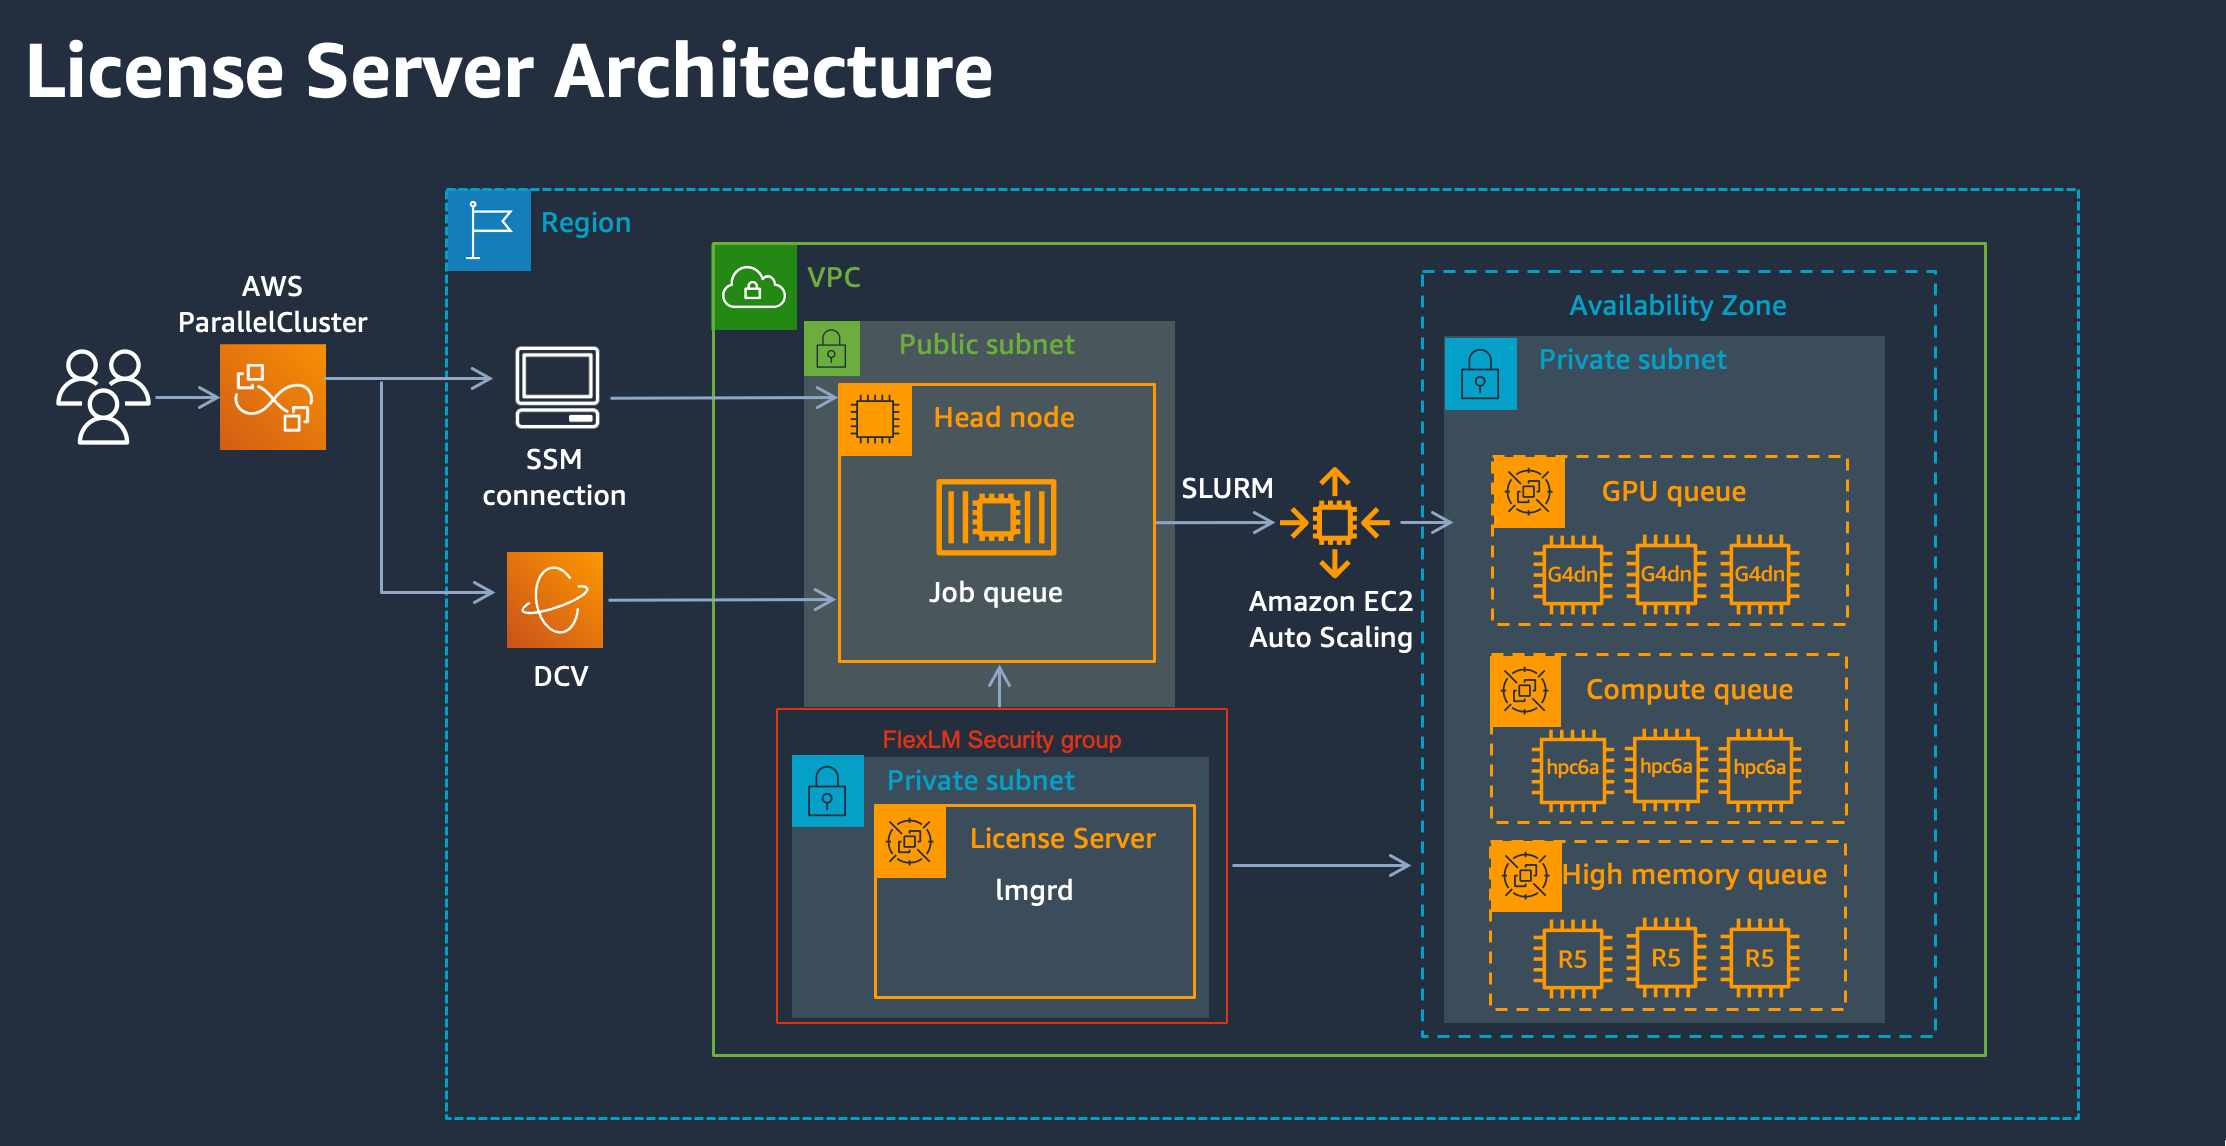
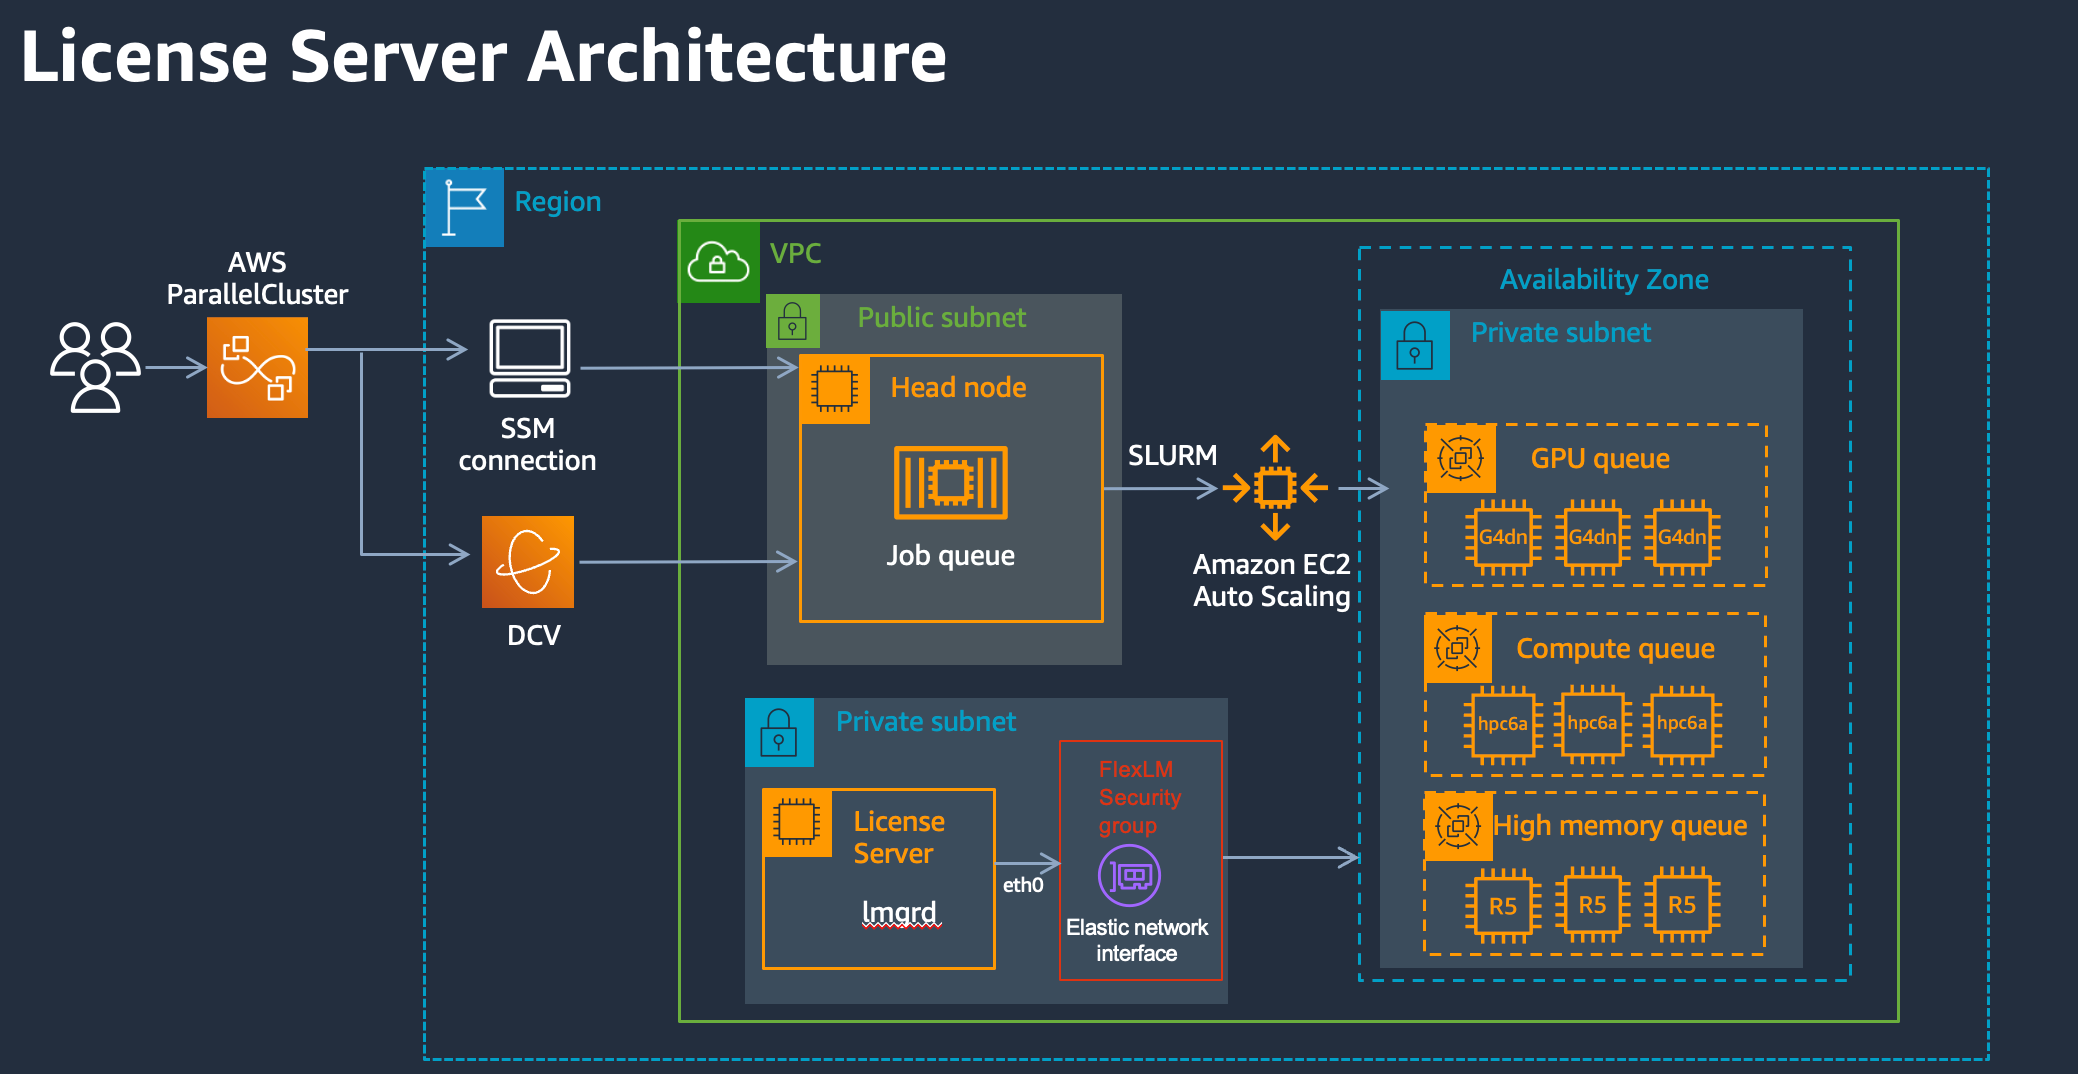
Add in external ENI to flexlm architecture diagram

diff --git a/content/posts/flexlm.md b/content/posts/flexlm.md
@@ -12,11 +12,23 @@ tags: [flexlm, aws, hpc]
 
 [FlexLM](https://www.openlm.com/what-is-flexlm-what-is-flexnet/) is the most popular license server for HPC workloads. It's the license server for applications like Siemens StarCCM+, Ansys Fluent, Abaqus, ect. 
 
-Once you have the licensing setup you can setup license tracking in Slurm following the blogpost [Setup Licensing with AWS ParallelCluster and Slurm 🪪](/posts/slurm-license-accounting.html).
+In the following guide we'll setup a license server that can be used with FlexLM (or any other linux-based licensing client). Once you have the licensing setup you can setup license tracking in Slurm following the blogpost [Setup Licensing with AWS ParallelCluster and Slurm 🪪](/posts/slurm-license-accounting.html).
+
+## Instance Type
+
+FlexLM has pretty minor compute requirements, just 2 cores and 4 GB of memory, so it can be easily run on a small (cheap) instance like the `t3.medium` however if you want to run 1,000's of jobs the license server can quickly become the bottleneck. For workloads like these, I recommend using a `c6in.4xlarge`. This should sufficient for 1,000's of jobs all pinging the license server at the same time.
+
+## Maintaining the same MAC Address
+
+Many license servers require a unique, immutable, identifier for the license server. This is typically done with a mac address of the network card, a small uuid that looks like `02:73:ae:2a:dc:81`. In the AWS world the network interface (virtual network card) can change if the instance is rebooted or terminated and re-launched. To avoid this, we've attached an Elastic Network Interface (ENI) that's created externally to the instance. This allows us to terminate and re-launch without changing the mac address and requiring a new license. You can read more about it [here](https://docs.aws.amazon.com/whitepapers/latest/run-semiconductor-workflows-on-aws/license-server-setup.html#improving-license-server-reliability).
+
+In addition, most licensing clients look for a fixed ip address when connecting to the server. To keep this from getting changed in reboots by `dhclient`, we've attached an elastic ip (eip) address. This is attached to the ENI, so even if the instance terminates we can easily bring up another instance and attach it to the same ENI and keep the same ip address.
+
+![EC2 Instance with Attached ENI](/img/flexlm/ec2-eni-eip.png)
 
 ## Setup
 
-To setup FlexLM on AWS we're going to launch a small instance, install the license software and enable [termination protection](https://docs.aws.amazon.com/AWSCloudFormation/latest/UserGuide/aws-properties-ec2-instance.html#cfn-ec2-instance-disableapitermination) to protect the license server from being inadvertently terminated.
+To setup FlexLM on AWS we're going to launch a CloudFormation stack. This will create an EC2 Instance, Elastic Network Interface (ENI), Elastic IP Address (EIP) and a Security Group. On the EC2 instance, it enables [termination protection](https://docs.aws.amazon.com/AWSCloudFormation/latest/UserGuide/aws-properties-ec2-instance.html#cfn-ec2-instance-disableapitermination) which protects the license server from being inadvertently terminated.
 
 1. First launch an instance using the following Cloudformation stack [flexlm.yaml](/templates/flexlm.yaml). Change the region in the upper right from `us-east-1` to your desired region. Make sure to launch the stack in the same VPC as your cluster so you can later connect to two.
 
@@ -31,7 +43,11 @@ To setup FlexLM on AWS we're going to launch a small instance, install the licen
 
     ![FlexLM Security Group](/img/flexlm/security-group.png)
 
-3. Run the following commands to install the FlexLM License server
+4. Next you can grab the mac address of the eni by running `ifconfig`. Take the address associated with the `eth0` device, next to `ether`:
+
+    ![ifconfig](/img/flexlm/ifconfig.png)
+
+5. Run the following commands to install the FlexLM License server
 
     ```bash
     # start the server
@@ -41,7 +57,7 @@ To setup FlexLM on AWS we're going to launch a small instance, install the licen
     lmutil lmstat -a
     ```
 
-4. Next we'll verify connection to the license server from the cluster. Login to the Headnode of your cluster and run:
+6. Next we'll verify connection to the license server from the cluster. Login to the Headnode of your cluster and run:
 
     ```bash
     lmstat -a -s 27000@ip
